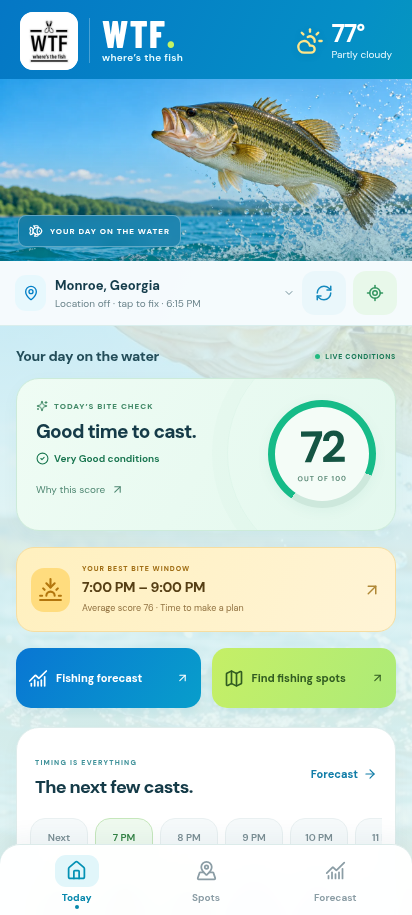
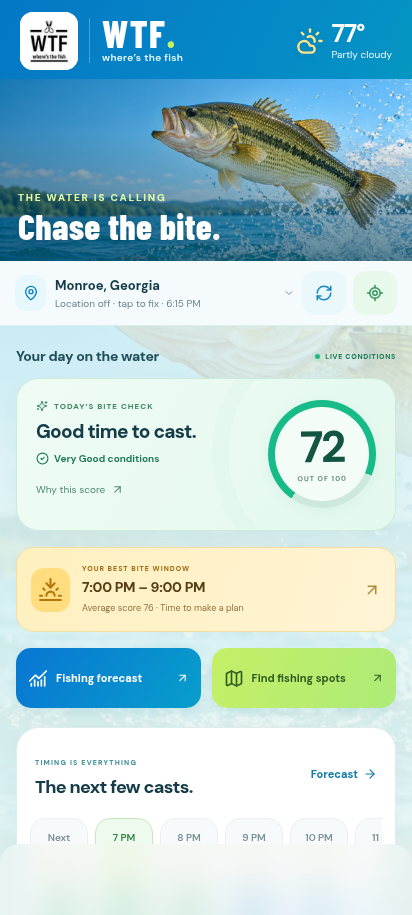
Restore the water is calling and chase the bite header copy

diff --git a/src/styles.css b/src/styles.css
@@ -2407,6 +2407,34 @@ footer > span {
 .bass-shade {
   background: linear-gradient(0deg, #00739060, transparent 65%);
 }
+.home-header .bass-shade {
+  background:
+    linear-gradient(90deg, #06456970, transparent 75%),
+    linear-gradient(0deg, #024765a8, transparent 70%);
+}
+.bass-home-copy {
+  position: absolute;
+  bottom: 17px;
+  left: 18px;
+  color: white;
+  text-shadow: 0 2px 8px #03405c55;
+}
+.bass-home-copy > span {
+  display: block;
+  margin-bottom: 4px;
+  color: #e2ffa9;
+  font-size: 10px;
+  font-weight: 800;
+  letter-spacing: 1.8px;
+  text-transform: uppercase;
+}
+.bass-home-copy h2 {
+  font-family: "Barlow Condensed", sans-serif;
+  font-size: clamp(29px, 9vw, 36px);
+  font-weight: 800;
+  line-height: 1;
+  letter-spacing: 0.3px;
+}
 .bass-tab-label {
   position: absolute;
   bottom: 14px;

diff --git a/src/components/AppHeader.tsx b/src/components/AppHeader.tsx
@@ -80,10 +80,17 @@ export default function AppHeader({
           fetchPriority="high"
         />
         <div className="bass-shade" />
-        <div className="bass-tab-label">
-          <Fish size={14} />
-          {tab === "Today" ? "YOUR DAY ON THE WATER" : tab.toUpperCase()}
-        </div>
+        {tab === "Today" ? (
+          <div className="bass-home-copy">
+            <span>The water is calling</span>
+            <h2>Chase the bite.</h2>
+          </div>
+        ) : (
+          <div className="bass-tab-label">
+            <Fish size={14} />
+            {tab.toUpperCase()}
+          </div>
+        )}
       </div>
       <div className="location-bar">
         <button
